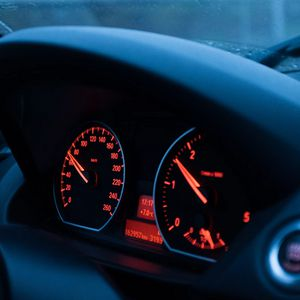
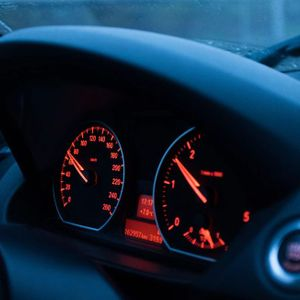
Skip CI - Processed images

diff --git a/content/fr/blog/posts/nous-lançons-un-accélérateur-pour-tester-l’investissement-progressif.md b/content/fr/blog/posts/nous-lançons-un-accélérateur-pour-tester-l’investissement-progressif.md
@@ -10,7 +10,8 @@ date: 2019-05-02T20:00:00.000Z
 image: /img/cds/blog-up-to-speed.jpg
 image-alt: Indicateur de vitesse
 translationKey: accelerator-launch
-thumb: /img/cds/blog-up-to-speed.jpg
+thumb: /img/cds/thumbnails/blog-up-to-speed.jpg
+processed: 1557153312952
 ---
 La collaboration avec le secteur privé joue un rôle important dans les pays qui font de grands progrès en matière de gouvernement numérique. Le gouvernement ne peut pas y arriver seul. La passation de marchés contribue à l’expansion des technologies modernes et des méthodes de conception dans le secteur public. Les entreprises apportent une expertise spécialisée, une capacité d’intensification flexible, une envergure et une expérience à la fine pointe de la technologie et de la pratique.
 
@@ -39,3 +40,4 @@ Nous sommes emballés par la possibilité d’éclairer l’approvisionnement po
 Nous envisageons de commencer modestement — assez modestement — pour d’abord tester quelques éléments du projet dans les prochains mois. Puis, nous pourrons considérer intensifier nos efforts en matière d’approvisionnement et de repérage d’idées. Nous continuerons à travailler ouvertement et à partager nos expériences.
 
 Restez donc à l’affût des nouvelles ici et sur Twitter. Vous avez des idées ou [souhaitez nous aider](https://numerique.canada.ca/conseiller-principal-en-approvisionnement/)? Nous aimerions avoir vos commentaires, par [courriel](mailto:cds-snc@tbs-sct.gc.ca) ou sur Twitter.
+

diff --git a/content/en/blog/posts/we’re-launching-an-accelerator-to-test-incremental-investment.md b/content/en/blog/posts/we’re-launching-an-accelerator-to-test-incremental-investment.md
@@ -9,7 +9,8 @@ date: 2019-05-02T20:00:00.000Z
 image: /img/cds/blog-up-to-speed.jpg
 image-alt: Car speedometer
 translationKey: accelerator-launch
-thumb: /img/cds/blog-up-to-speed.jpg
+thumb: /img/cds/thumbnails/blog-up-to-speed.jpg
+processed: 1557153312858
 ---
 In countries making significant progress with digital government, work with the private sector is an important part of the puzzle. Government can’t do it alone. Contracting helps scale modern technology and design methods across the public sector. Businesses bring specialized expertise, flexible surge capacity, scale, and experience with the cutting edge of technology and practice.
 
@@ -35,3 +36,4 @@ We’re excited about the potential to demystify procurement for digital deliver
 We plan to start small — quite small — to test a few elements of this over the coming months before we look to scale our procurement and idea-sourcing efforts. We’ll continue to work in the open and share our experiences, so look for updates here and on Twitter.
 
 Have thoughts or [want to help](https://digital.canada.ca/senior-procurement-advisor/)? We’d love to hear from you, by [e-mail](mailto:cds-snc@tbs-sct.gc.ca), on Twitter, or otherwise.
+
